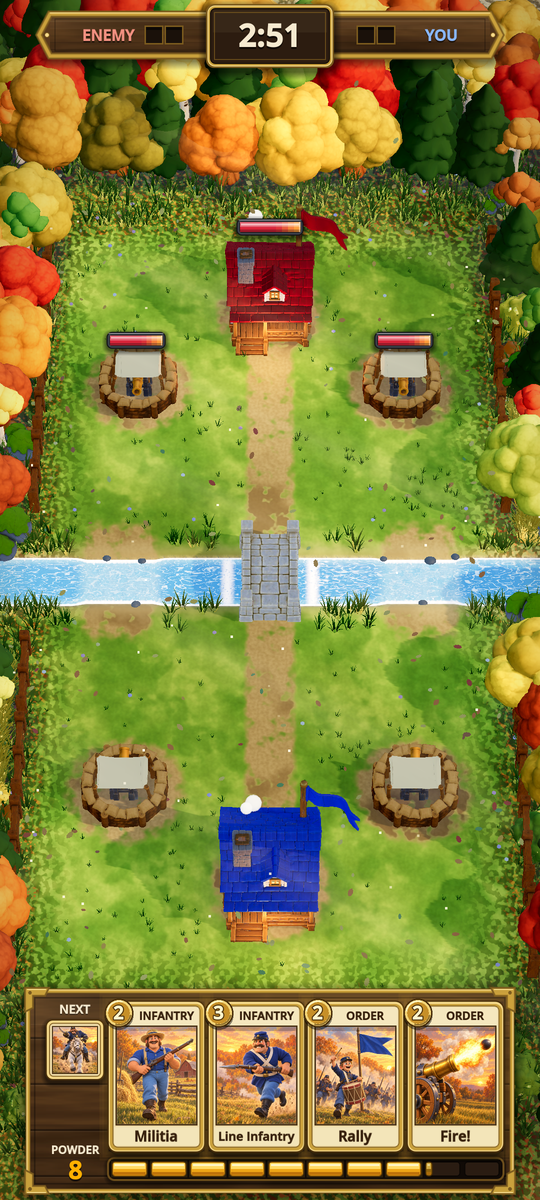
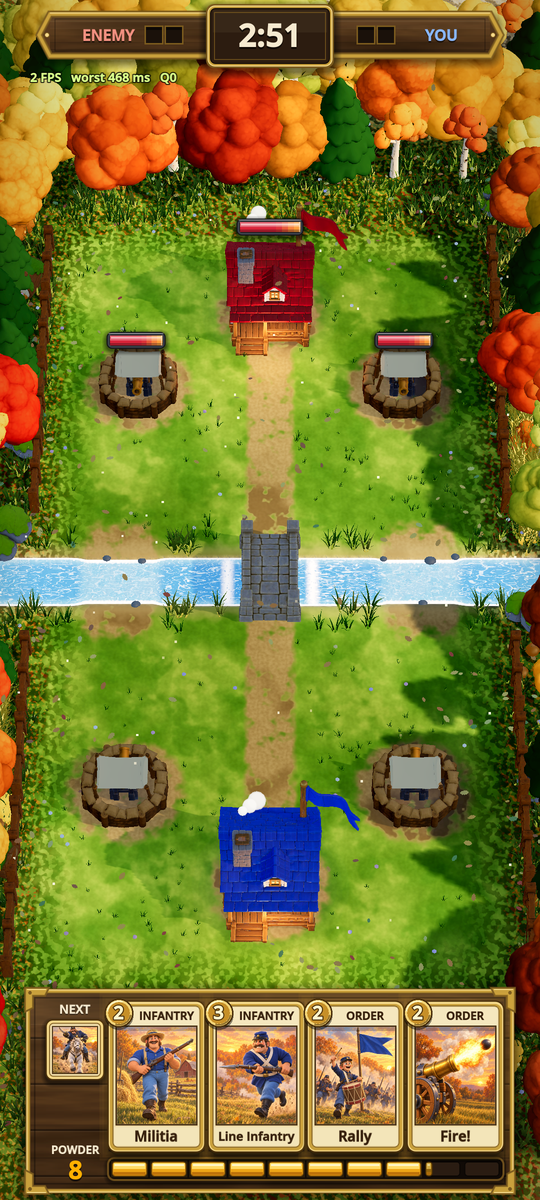
Drums of War 0.3.6: full quality within the frame budget
Android frame pacing is set to the fixed mode: the default one lowers the
cap to a steady 30 whenever a game runs between 40 and 60. The woods'
shadow on the ground is baked once at the start (sun and trees never
move) so the live shadow map holds only troops, buildings and the bridge.
Grass is planted only where the top-down camera sees ground, the see-
through shade pools under trees are gone, rough surfaces skip highlight
maths, and trees, bushes and men use fewer triangles where it cannot
show. Level 0 draws 472k triangles a frame, down from 636k. The quality
governor is now a slow safety net and starts again from level 0.

Claude-Session: https://claude.ai/code/session_01NyUonri7Kb3u4gHie1gxyQ

diff --git a/drums_of_war/README.md b/drums_of_war/README.md
@@ -85,9 +85,13 @@ match goes to one minute of sudden-death overtime.
   rings, flung earth and splinters, struck figures flashing white and being shoved or thrown.
   At the start it loads and draws one of everything the decks can field behind a curtain,
   and it keeps figures built ahead of time, so a deploy does not stall the frame.
+  The woods' shadow on the ground is drawn once at the start into a texture (the sun and the
+  trees never move) rather than into the live shadow map every frame, and grass is only
+  planted where the top-down camera can see the ground.
 - `scripts/view/quality.gd`: watches the frame rate and, if it stays under the target, steps
   the finish down a level at a time (bloom and antialiasing, then shadow softness and model
-  detail, then shadows) until it holds. The picture is never scaled down. The level is shown
+  detail, then live shadows) until it holds. It is a safety net and slow to act: the game is
+  built to run at level 0. The picture is never scaled down. The level is shown
   beside the FPS readout; tapping the readout starts again from the top.
 - `scripts/view/arena.gd`: the scenery, set in autumn: ground sculpted with a real creek channel,
   water, grass tufts and reeds, wheat, woods in fall colours, leaf litter and falling leaves,
